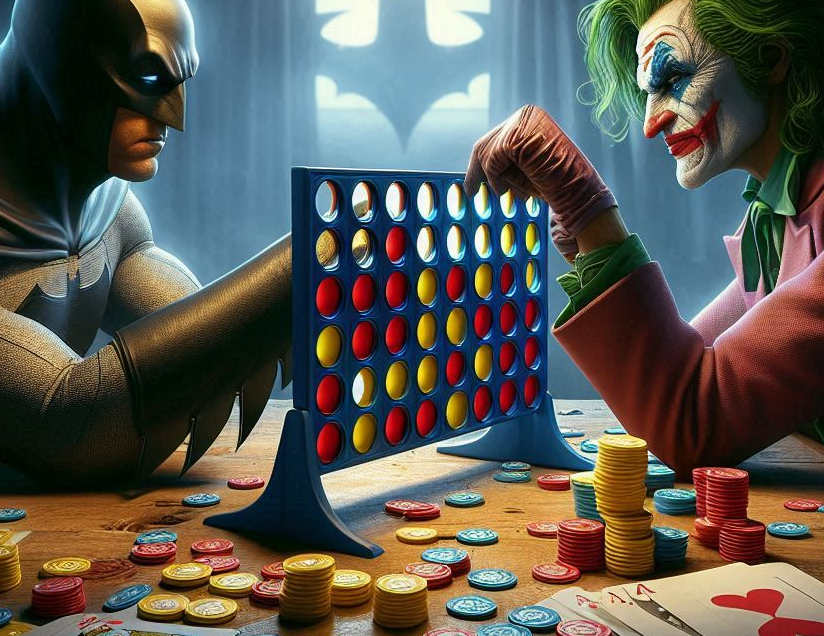
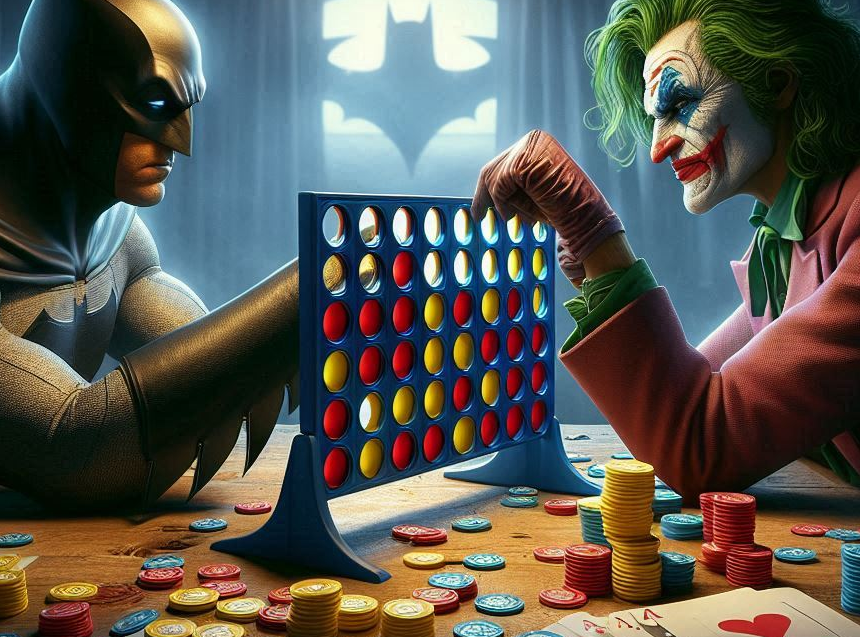
[GAME] cambio imagen de fondo

diff --git a/EntregablePractico2/js/game/game.js b/EntregablePractico2/js/game/game.js
@@ -50,7 +50,7 @@ class Game {
     getComponent() {
         const canvas = document.createElement("canvas");
         canvas.id = 'gameCanvas';
-        canvas.style.backgroundImage= 'linear-gradient(rgba(0, 0, 0, 0.5), rgba(0, 0, 0, 0.5)), url(./static/assets/game/batman4.png)';
+        canvas.style.backgroundImage= 'linear-gradient(rgba(0, 0, 0, 0.5), rgba(0, 0, 0, 0.5)), url(./static/assets/game/game-background.png)';
         canvas.style.backgroundRepeat = 'no-repeat';
         canvas.style.backgroundPosition = 'center top';
         canvas.style.backgroundSize = '100%';
